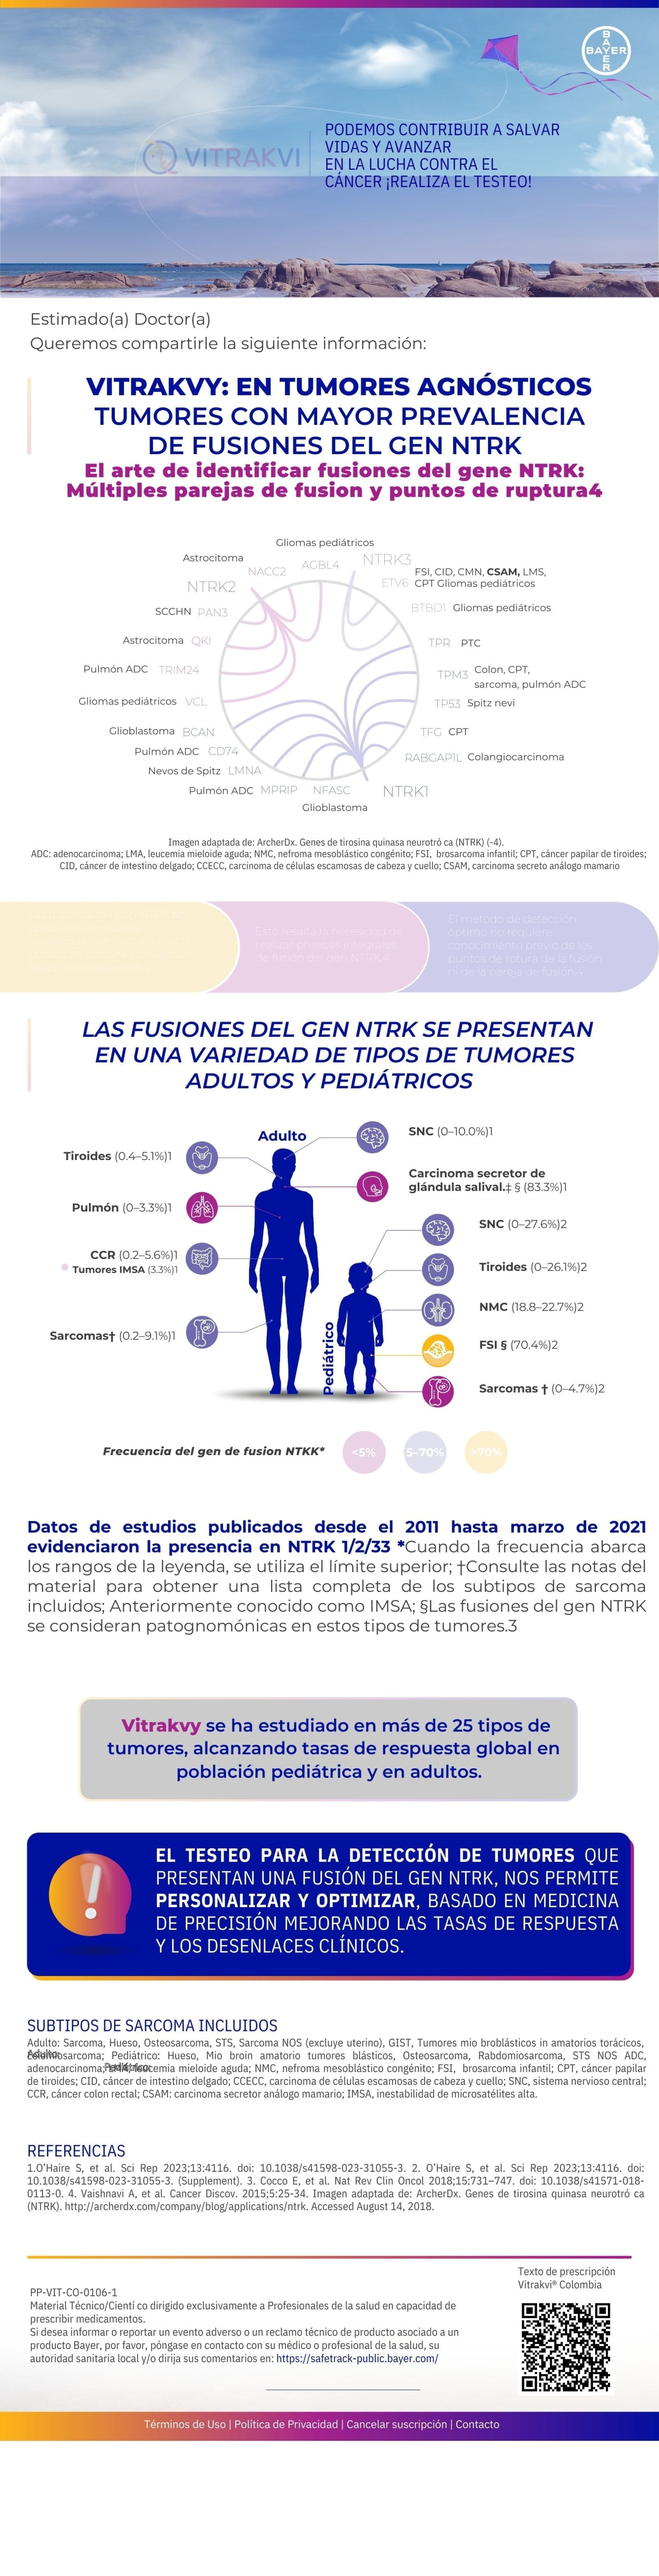
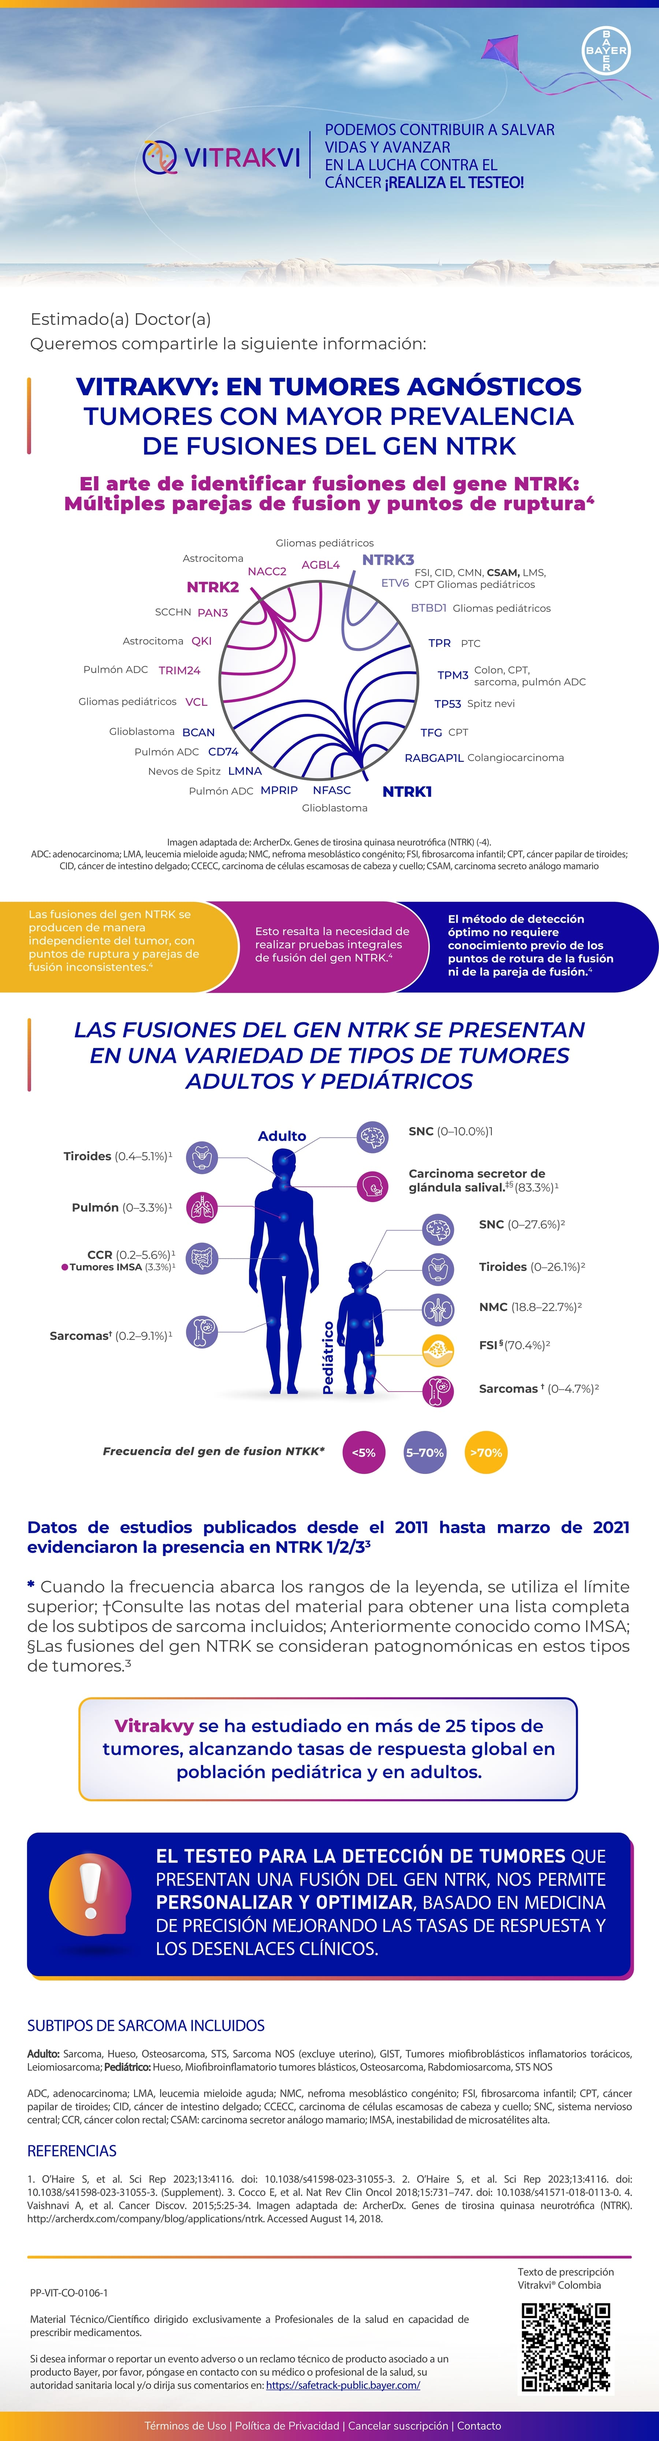
UPDATE

diff --git a/index.html b/index.html
@@ -16,7 +16,7 @@
    <link rel="preconnect" href="https://fonts.gstatic.com" crossorigin>
    <link href="https://fonts.googleapis.com/css2?family=Nunito+Sans:opsz,wght@6..7,700&display=swap" rel="stylesheet">
 
-   <title>Tumores Agnosticos</title>
+   <title>VITRAKVY: EN TUMORES AGNÓSTICOS</title>
    <style>
       *,
       *::before,
@@ -54,8 +54,8 @@
       }
       a {
          position: absolute;
-         /* background: #000;
-         opacity: 0.5;   */
+         background: #000;
+         opacity: 0.5;  
       }
       .qr_Info{
          top: 3143px;
@@ -66,32 +66,32 @@
 
 
       .link_safe {
-         top: 3212px;
-         left: 376px;
-         width: 223px;
-         height: 14px;
+             top: 3249px;
+    left: 363px;
+    width: 213px;
+    height: 14px;
       }
       .terminos_uso {
-         top: 3302px;
+         top: 3304px;
          left: 196px;
          width: 115px;
          height: 14px;
       }
       .politica_privacidad {
-         top: 3302px;
+         top: 3304px;
          left: 318px;
          width: 145px;
          height: 14px;
       }
       .cancelar_suscripción {
-      top: 3301px;
+      top: 3304px;
       left: 471px;
       width: 140px;
       height: 15px;
 }
 
    .contacto {
-         top: 3302px;
+         top: 3304px;
          left: 622px;
          width: 60px;
          height: 15px;
@@ -118,8 +118,8 @@
       top: 390px;
       left: 294px;
       font-size: 20px;
-      color: #404040;
-      font-weight: 700;
+      color: #001299;
+      font-weight: 400;
       font-size: 26px;
       }  
    </style>
